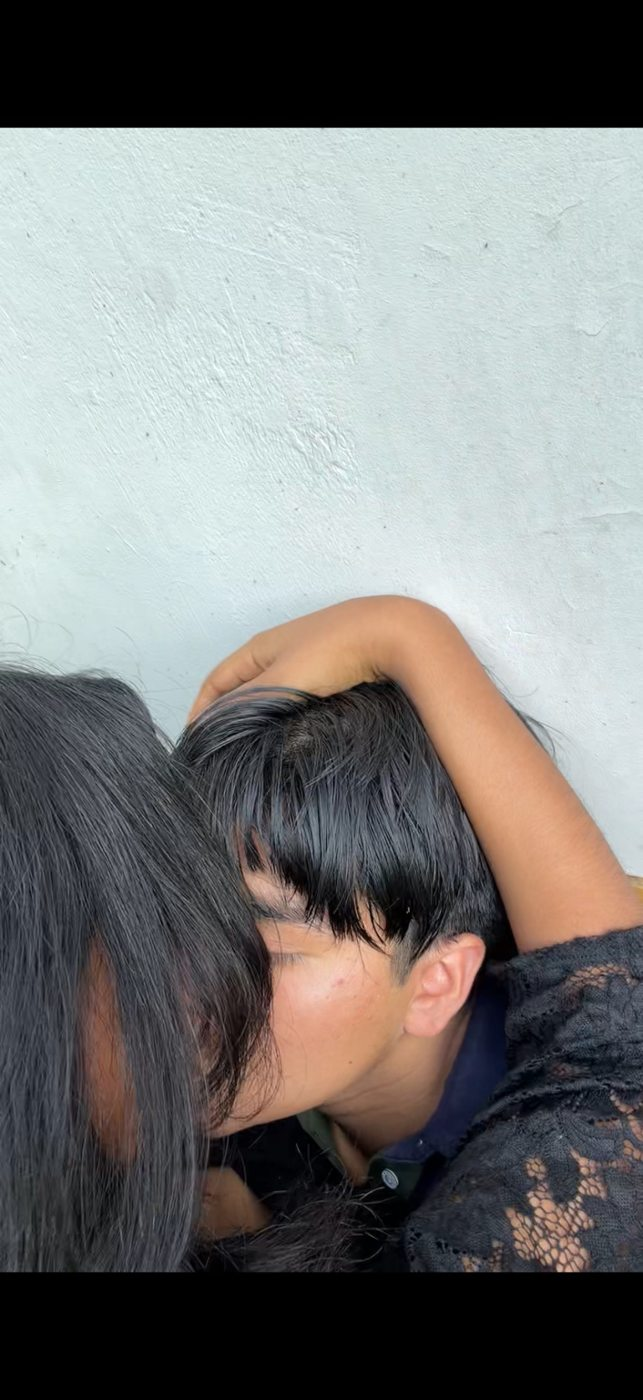
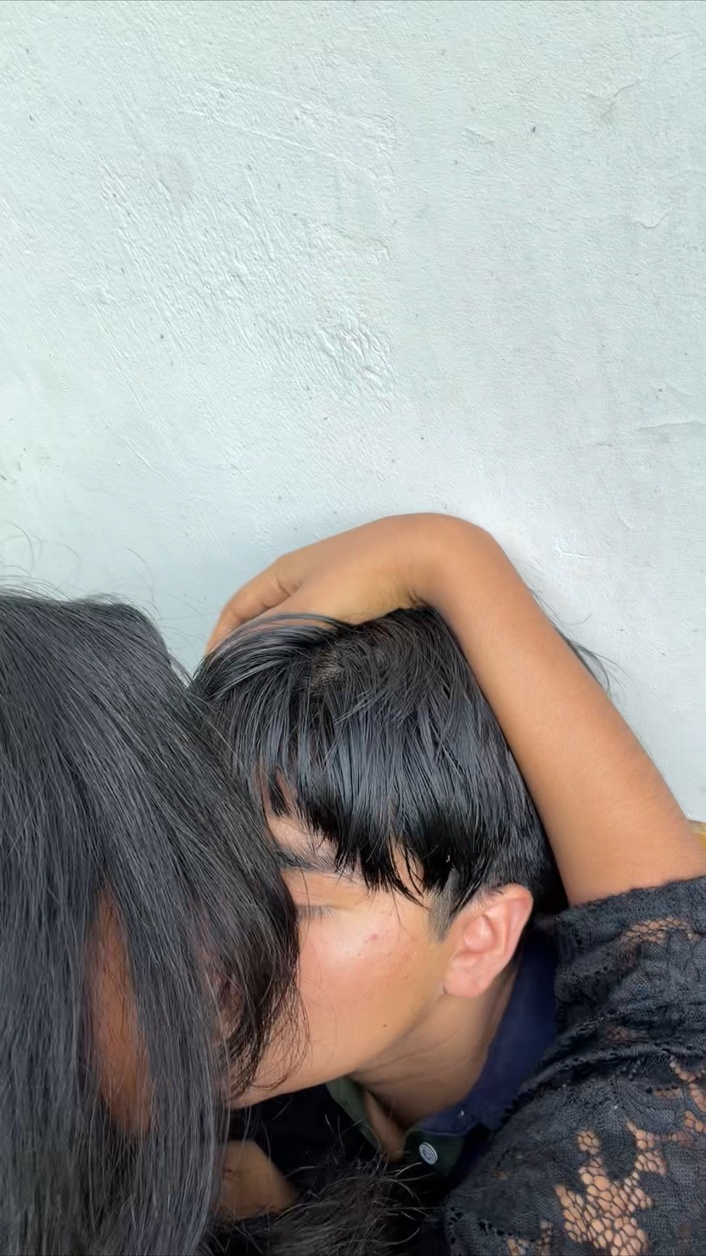
Crop only black bands from TOP 1 photo

diff --git a/index.html b/index.html
@@ -1,8 +1,8 @@
 <!doctype html><html lang="es"><head><meta charset="UTF-8"><meta name="viewport" content="width=device-width,initial-scale=1,viewport-fit=cover"><meta name="theme-color" content="#fffaf9"><title>Top 10 momentos juntos</title><style>
 @import url('https://fonts.googleapis.com/css2?family=DM+Sans:wght@400;500;600&family=Playfair+Display:wght@400;500&display=swap');
 :root{font-family:'DM Sans',sans-serif;color:#77525d;background:#fffaf9}*{box-sizing:border-box}body{margin:0;min-height:100dvh;background:radial-gradient(ellipse at 50% 0%,#fff2f1,transparent 55%),#fffaf9}button{font:inherit;cursor:pointer}main{max-width:540px;margin:auto;padding:52px 22px 45px;text-align:center}.heart{font-size:26px;color:#c78b99}h1{font-family:'Playfair Display',serif;font-weight:400;font-size:clamp(37px,10vw,58px);line-height:1.12;margin:13px 0 28px;color:#b87988}h1 span{display:block;font-size:.54em;letter-spacing:.15em;margin-top:8px}.grid{display:grid;grid-template-columns:repeat(3,minmax(0,1fr));gap:15px}.tile{position:relative;aspect-ratio:.69;border:0;padding:0;border-radius:13px;background:transparent;perspective:800px}.inner{display:block;width:100%;height:100%;position:relative;transition:transform .65s cubic-bezier(.2,.75,.25,1);transform-style:preserve-3d}.tile.open .inner{transform:rotateY(180deg)}.face{position:absolute;inset:0;backface-visibility:hidden;border-radius:12px;overflow:hidden;box-shadow:0 7px 17px #b9768330}.back{background:linear-gradient(145deg,#f3bcb5,#e8a6a4);border:5px solid #f5c9c1;outline:1px solid #e6a8a4;outline-offset:-9px;display:grid;place-items:center;color:#fff7f3}.back:after{content:'';position:absolute;inset:13px;border:1px solid #fff8f3aa;border-radius:6px;pointer-events:none}.back svg{width:49%;stroke-width:1.5}.front{transform:rotateY(180deg);background:#f7e9e9}.front img{width:100%;height:100%;object-fit:cover}.front b{position:absolute;bottom:7px;left:7px;background:#fff9f2ed;border-radius:9px;padding:5px 8px;color:#a66b7b;font-size:12px}.hint{font-family:'Playfair Display',serif;font-size:17px;margin:28px 0 7px}.progress{font-size:12px;color:#b48b95}.overlay{position:fixed;inset:0;z-index:10;background:#3c2637a6;display:flex;align-items:center;justify-content:center;padding:16px;opacity:0;pointer-events:none;transition:opacity .25s}.overlay.visible{opacity:1;pointer-events:auto}.modal{width:min(100%,440px);max-height:92dvh;overflow:auto;background:#fffaf9;border-radius:22px;padding:18px 18px 24px;box-shadow:0 18px 65px #32172255;transform:translateY(18px) scale(.97);transition:transform .3s}.overlay.visible .modal{transform:none}.topline{display:flex;justify-content:space-between;align-items:center;font-size:11px;letter-spacing:.15em;color:#ae8792}.close{background:none;border:0;font-size:28px;color:#a87b87}.rank{font-family:'Playfair Display',serif;font-size:44px;color:#b97989;margin:4px 0}.name{font-family:'Playfair Display',serif;font-size:24px;color:#76515d;margin:0}.date{color:#ad8b96;font-size:13px;margin:8px 0 15px}.photo{width:100%;max-height:43dvh;object-fit:contain;background:#f6ecec;border-radius:12px;display:block}
-/* The source TOP 1 image has 140px black letterboxing at both ends; display only its 706x1256 picture area. */
-.photo.photo--top1{width:min(100%,calc(53dvh * 706 / 1256));aspect-ratio:706 / 1256;height:auto;max-height:none;object-fit:cover;object-position:center;margin-inline:auto;}.audio{background:#f9eded;border-radius:12px;margin-top:14px;padding:12px;text-align:left}.audio p{font-size:13px;margin:0 0 8px}.audio audio{width:100%;height:38px}.missing{font-size:12px;color:#b28b96}.primary{background:#b97989;border:0;border-radius:11px;padding:13px 20px;color:white;width:100%;margin-top:15px}.final{display:none;text-align:center;padding:40px 0}.final.show{display:block}.final button{border:1px solid #dfb5bc;background:#fff0f1;border-radius:20px;padding:30px 36px;font-family:'Playfair Display',serif;font-size:27px;color:#b97989;box-shadow:0 8px 25px #b9798929}.restart{border:0;background:transparent;color:#a77b87;text-decoration:underline;margin-top:20px}.small{font-size:13px;color:#aa8791}@media(max-width:370px){main{padding:30px 13px}.grid{gap:10px}}
+/* TOP 1 photo is cropped to its natural 706x1256 picture, retaining the full photo area. */
+.photo.photo--top1{width:min(100%,calc(53dvh * 706 / 1256));aspect-ratio:706 / 1256;height:auto;max-height:none;object-fit:contain;object-position:center;margin-inline:auto;}.audio{background:#f9eded;border-radius:12px;margin-top:14px;padding:12px;text-align:left}.audio p{font-size:13px;margin:0 0 8px}.audio audio{width:100%;height:38px}.missing{font-size:12px;color:#b28b96}.primary{background:#b97989;border:0;border-radius:11px;padding:13px 20px;color:white;width:100%;margin-top:15px}.final{display:none;text-align:center;padding:40px 0}.final.show{display:block}.final button{border:1px solid #dfb5bc;background:#fff0f1;border-radius:20px;padding:30px 36px;font-family:'Playfair Display',serif;font-size:27px;color:#b97989;box-shadow:0 8px 25px #b9798929}.restart{border:0;background:transparent;color:#a77b87;text-decoration:underline;margin-top:20px}.small{font-size:13px;color:#aa8791}@media(max-width:370px){main{padding:30px 13px}.grid{gap:10px}}
 @media(prefers-reduced-motion:reduce){*,*:before,*:after{transition-duration:.01ms!important;animation-duration:.01ms!important}}
 
 /* Ajustes de interacción: ligeros en móviles y respetuosos con movimiento reducido */
